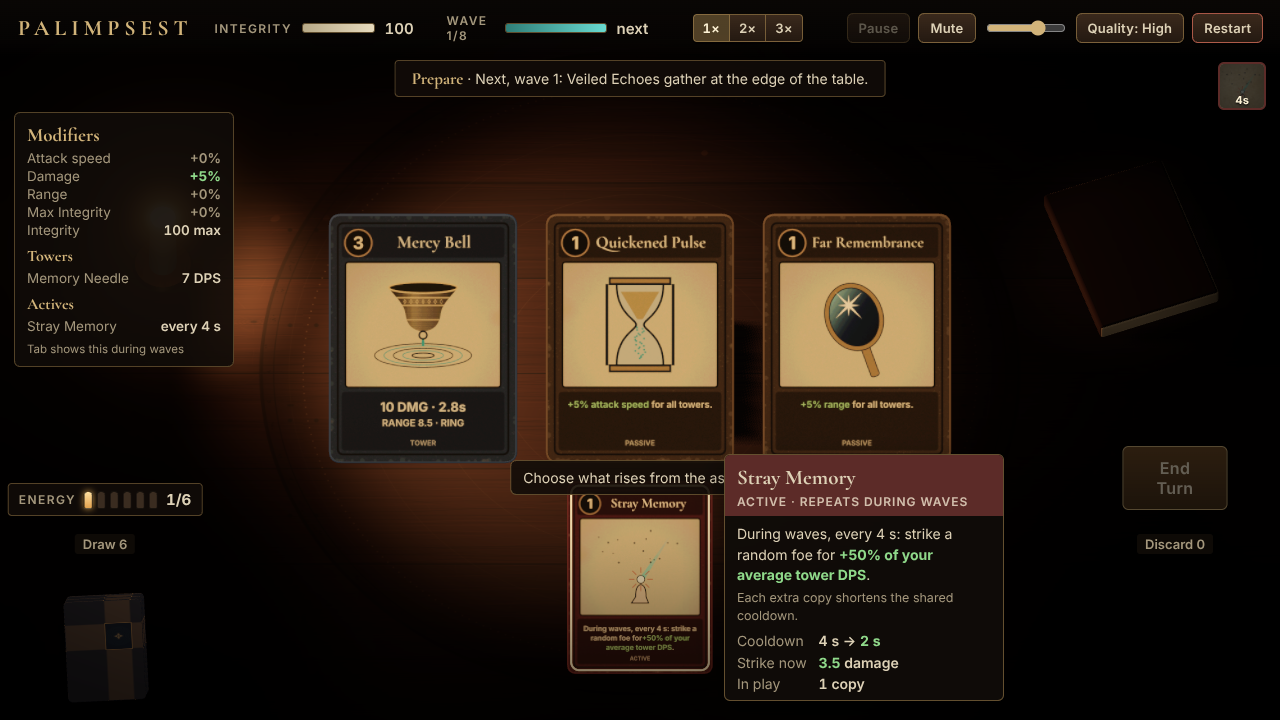
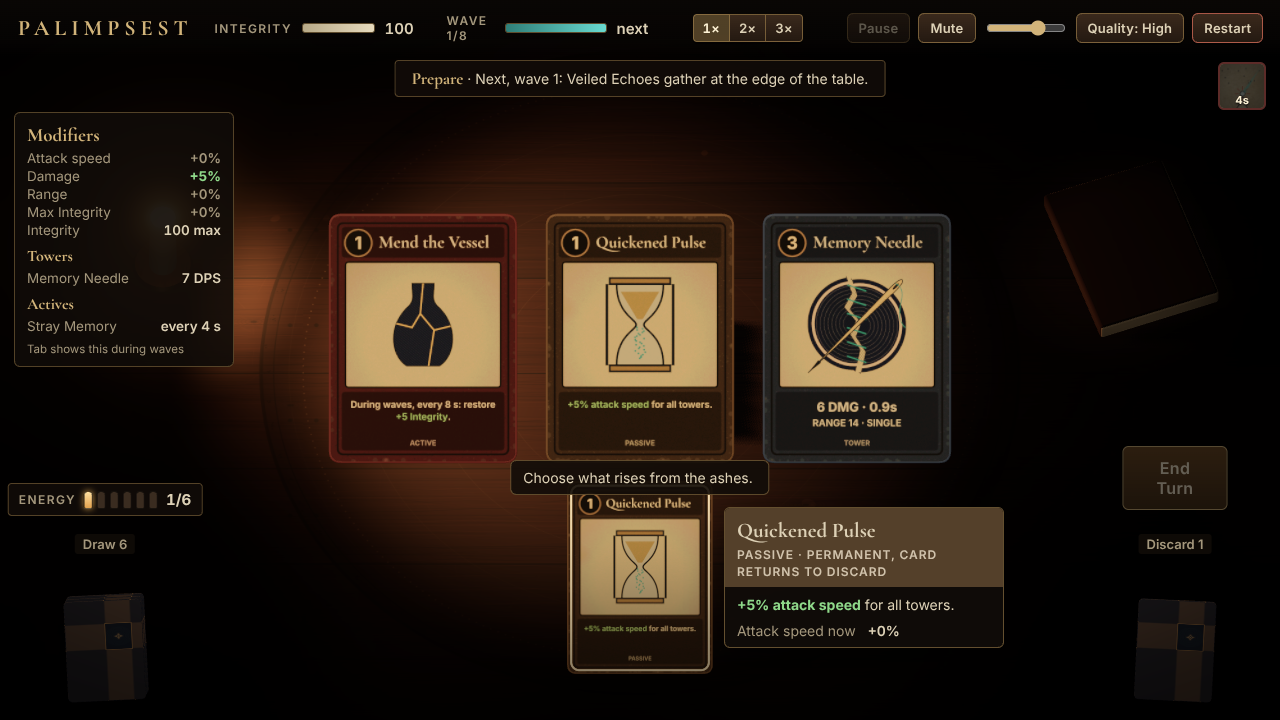
Record verification for recycling passives and Dust (42/42 smoke, full-run victory)
Claude-Session: https://claude.ai/code/session_01X78aunXjSk1YMFuBbki7X9

diff --git a/docs/VERIFICATION.md b/docs/VERIFICATION.md
@@ -14,10 +14,10 @@ WebGL2 runs on ANGLE → SwiftShader, a CPU rasterizer:
 | Command | Result |
 |---|---|
 | `npm run typecheck` | passes (strict) |
-| `npm test` | **57/57** Vitest tests pass (`simulation`, `deck`, `phases`, balance report) |
+| `npm test` | **60/60** Vitest tests pass (`simulation`, `deck`, `phases`, balance report) |
 | `npm run build` | passes, ≈ 750 kB JS (≈ 200 kB gzip) + bundled fonts; published to the repo root for Pages |
 | `npm run balance` | table in `docs/TUNING.md` (placeholder balance) |
-| `npm run smoke` | **41/41** checks, 0 console errors (`docs/evidence/smoke-report.json`) |
+| `npm run smoke` | **42/42** checks, 0 console errors (`docs/evidence/smoke-report.json`) |
 | `node tools/fullrun.mjs <preview> low - 960x540` | one whole run with ordinary inputs (see below) |
 
 ## Deterministic checks (Vitest)
@@ -25,10 +25,13 @@ WebGL2 runs on ANGLE → SwiftShader, a CPU rasterizer:
 * **Turn rules:** opening hand of 4 always contains the tower; 6 energy per turn; tower 3 / common 1;
   overspending refused; End Turn discards the hand; empty draw pile reshuffles the discard.
 * **Passives / actives:** passives add permanent modifiers (+5% attack speed shortens the interval,
-  +5% damage and range multiply, max Integrity raises the cap and restores the added amount);
-  played cards leave the deck. Stray Memory hits a random foe for exactly 50% of the average tower
+  +5% damage and range multiply, max Integrity raises the cap and restores the added amount); a
+  played passive goes to the discard pile and stacks again when replayed; actives and towers
+  leave the deck. Stray Memory hits a random foe for exactly 50% of the average tower
   DPS; a second copy halves the cooldown; actives hold with nothing to do (no foes, no towers, full
   Integrity). Tower stats (damage, DPS, attack speed, range, projectiles) follow the modifiers.
+* **Dust:** a deck under 4 cards is topped up with Dust at the start of a turn (the opening tower
+  guarantee still holds); Dust cannot be played, is never offered, and can be sacrificed or purged.
 * **Time speed:** 1×/2×/3× run 60/120/180 fixed steps for the same 60 frames.
 * **Sacrifice / purge:** two marked → three offers; a matching pair guarantees that card among
   them; unlimited sacrifices; one purge per turn; a third mark replaces the oldest.
@@ -44,7 +47,7 @@ WebGL2 runs on ANGLE → SwiftShader, a CPU rasterizer:
 
 Real mouse moves, drags, clicks and right-clicks on the canvas and real DOM buttons. Fixtures only
 *reach* states quickly (defeat, victory, charge poses, swarm stress) and are labelled.
-Run 2026-10-08T20:03:01.057Z: **41/41 passed**.
+Run 2026-10-08T20:48:36.891Z: **42/42 passed**.
 
 | | Check |
 |---|---|
@@ -53,8 +56,9 @@ Run 2026-10-08T20:03:01.057Z: **41/41 passed**.
 | ✔ | Hovering a hand card shows its 14px tooltip and the tower range preview |
 | ✔ | Dropping a tower on a locked socket is refused and the card stays in hand |
 | ✔ | Dragging the Needle into an open socket places it for 3 energy and removes it from the deck cycle |
-| ✔ | Clicking a passive plays it for 1 energy, applies +5% damage permanently and removes it from the deck |
+| ✔ | Clicking a passive plays it for 1 energy, applies +5% damage permanently and sends the card to the discard pile |
 | ✔ | Hovering a placed tower lists Damage, DPS, Attack speed, Range, Target and Projectiles with modifiers applied |
+| ✔ | Clicking Dust does not play it and costs nothing |
 | ✔ | Playing an active card installs it with a cooldown icon at the top of the screen |
 | ✔ | During a turn the modifier panel lists the current modifiers |
 | ✔ | Right-clicking two cards marks them and offers Sacrifice |
@@ -98,13 +102,13 @@ After the first End Turn it presses the in-game **3×** button, as an impatient 
 logical snapshot is only read to decide moves and to log evidence. Every tower placement is
 verified against the simulation.
 
-* **Turn 0:** placed the Needle by drag. Sacrificed Sharpened Grief + Sturdy Vessel and chose
+* **Turn 0:** placed the Needle by drag. Sacrificed Stray Memory + Sturdy Vessel and chose
   Kindred Thread, then placed it in the second open socket.
-* **Turns 1–2:** played every passive and active by click: Stray Memory ×2, Mend the Vessel ×1,
-  attack speed +10%, damage +5%, range +5%. Played cards left the deck, so **the deck was empty
-  from turn 2 on** (turns 3–7 drew nothing).
-* **Outcome: VICTORY** after 271 kills and 19 arrivals, ending at 26 Integrity (265 s of
-  simulation, 499 s of wall time at 3×). Restart then produced a fresh run. 0 console errors.
+* **Turns 1–7:** played four cards a turn by click. Passives returned through the discard pile
+  and stacked again, reaching +60% damage, +50% attack speed and +20% range by turn 7, with
+  Stray Memory and Mend the Vessel in play. The deck held 5 cards, so no Dust was needed.
+* **Outcome: VICTORY** at 100 Integrity: 286 kills, 0 arrivals (256 s of simulation, 538 s of
+  wall time at 3×). Restart then produced a fresh run. 0 console errors.
 
 Per-turn log: `docs/evidence/fullrun-victory.json`. Because SwiftShader caps the frame rate, this
 run is **not** evidence of real-time pacing feel.
